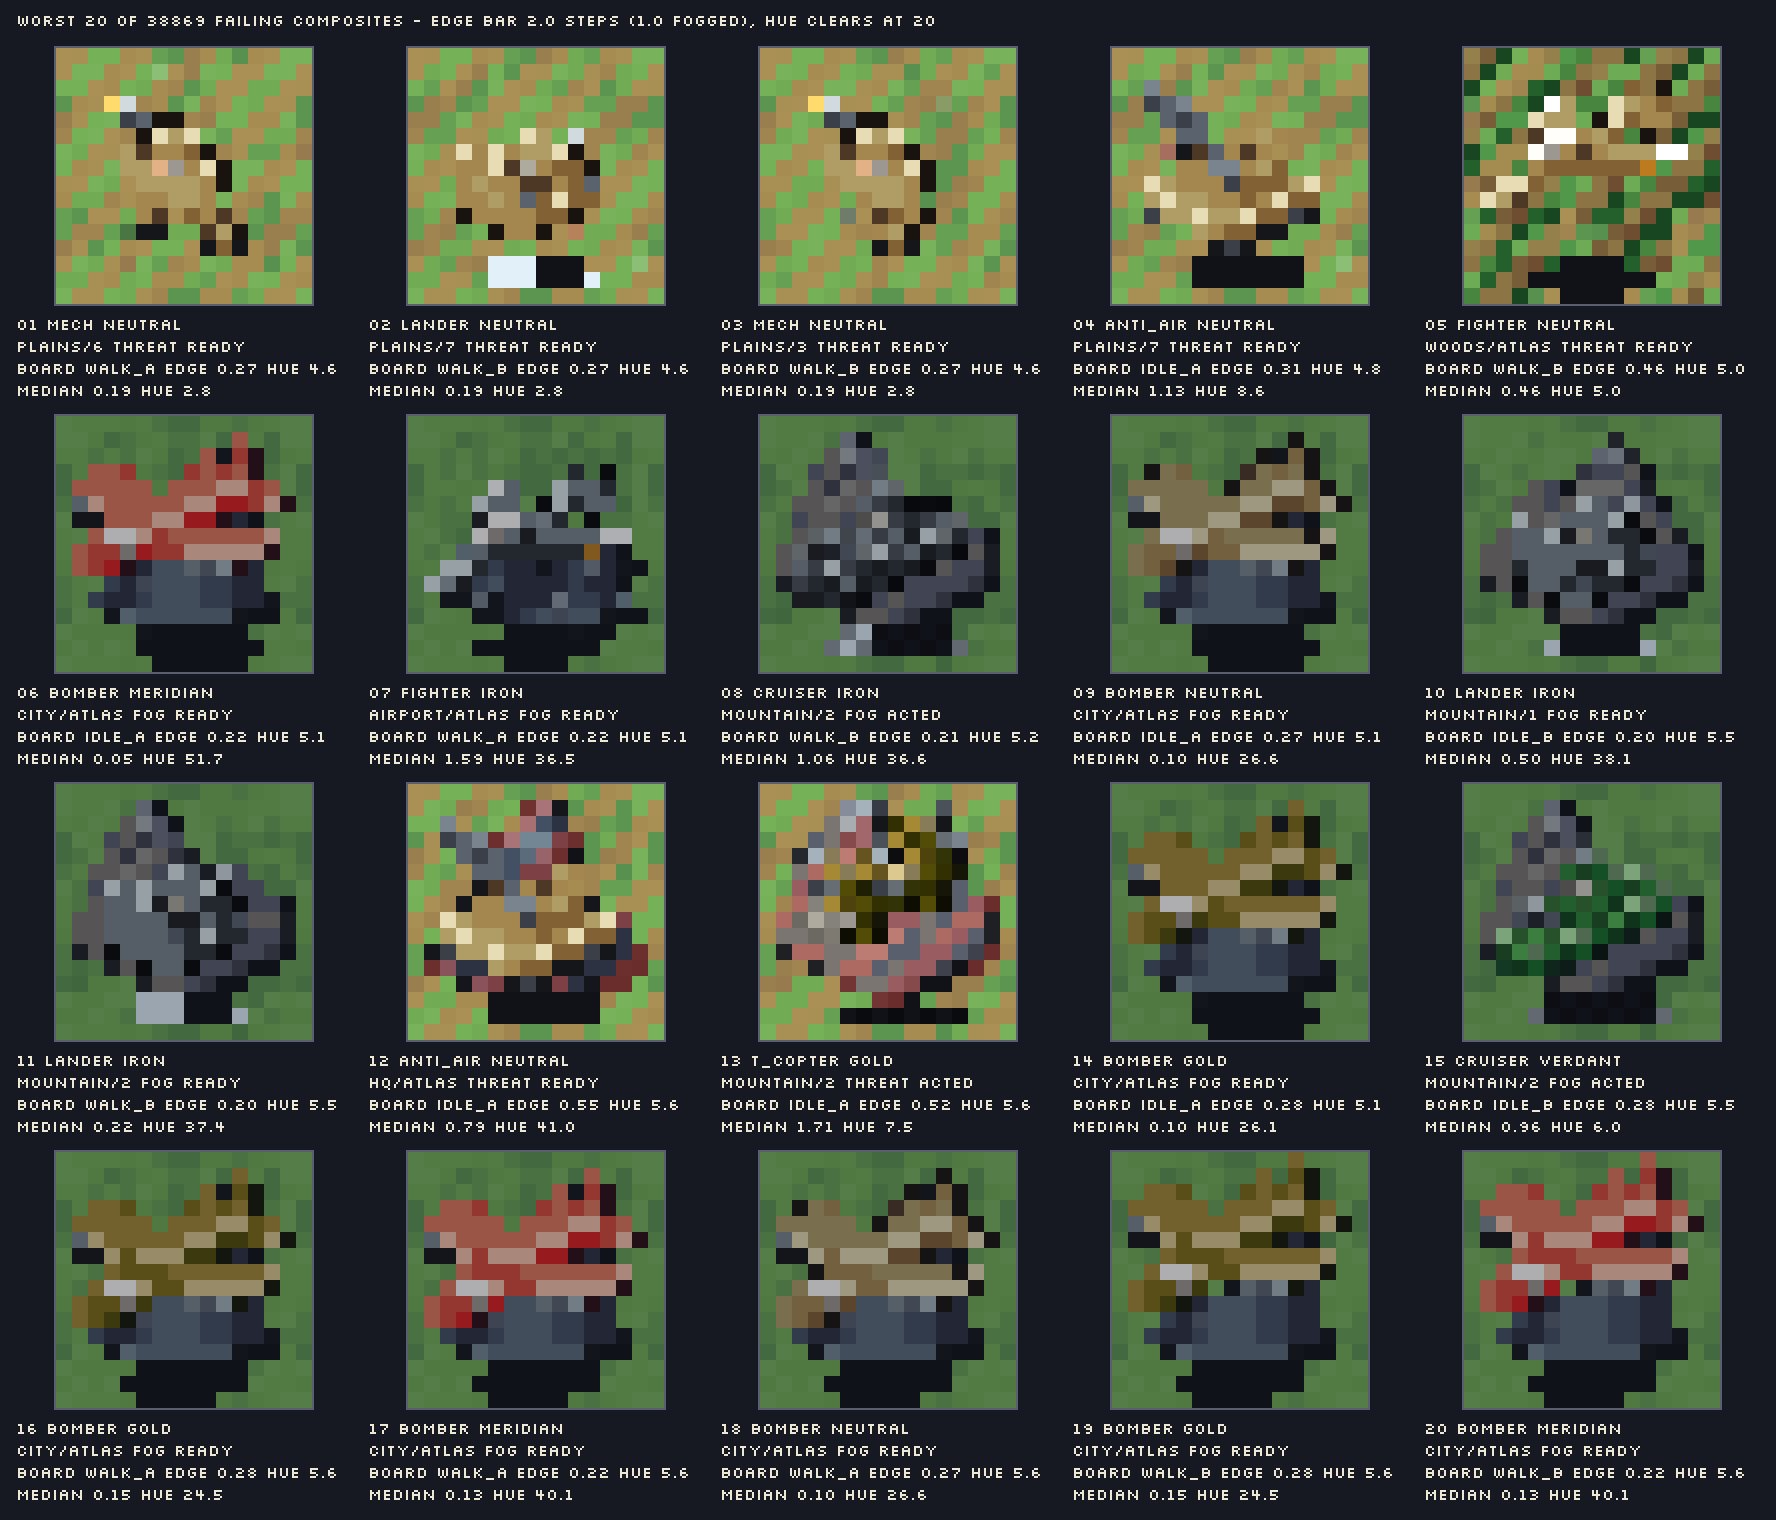
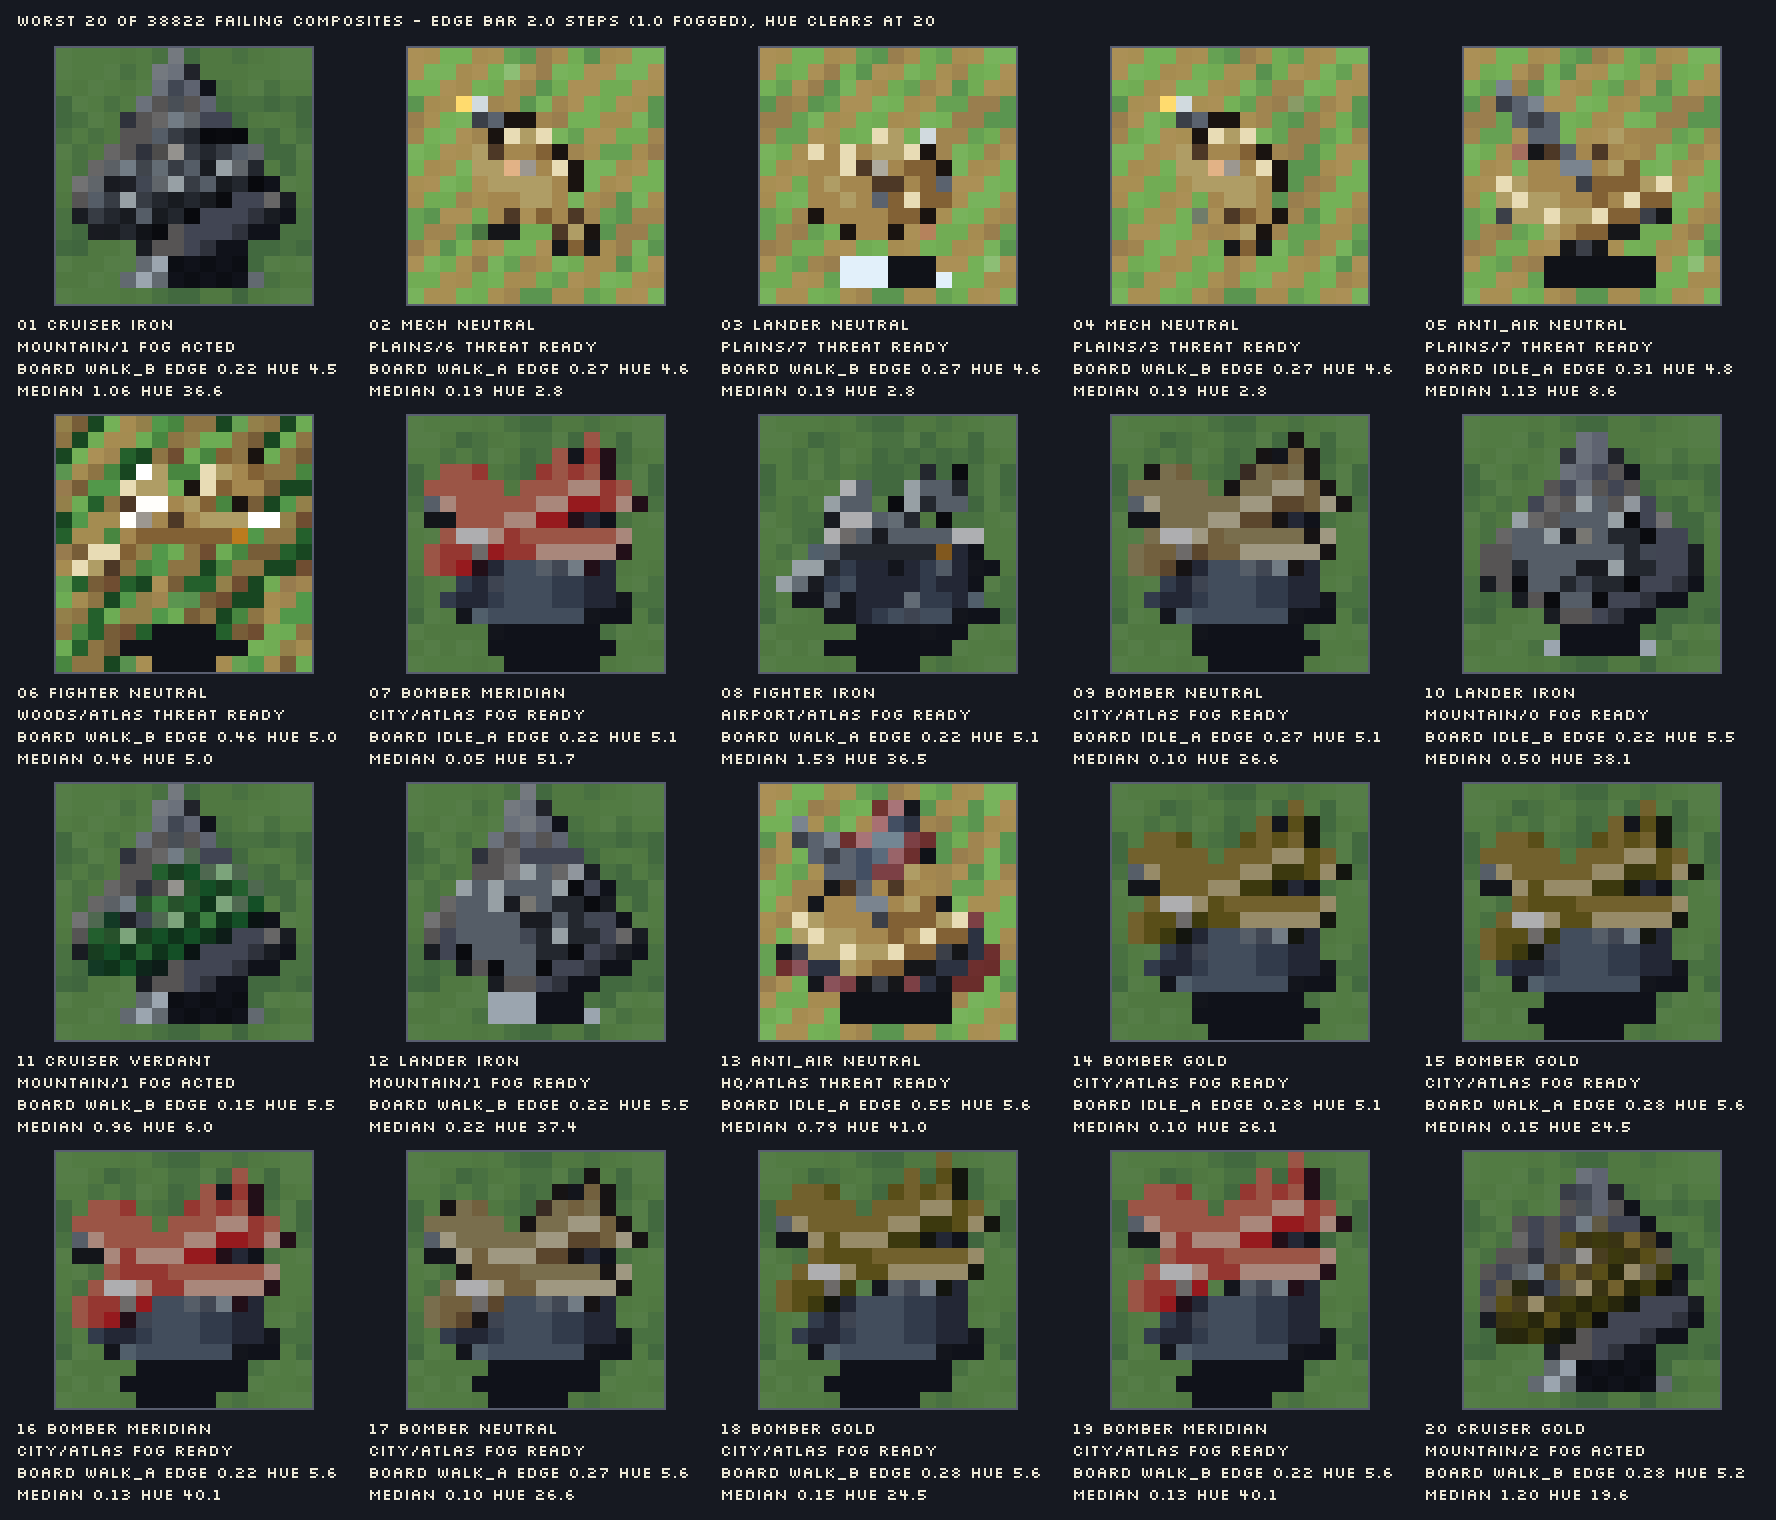
Re-baseline the legibility digest for the mountain's new cap
The rebase over #580 and #582 puts the sweep on the shipped mint reach wash,
so the mountain redraw is measured against that board: 60 cells cross to
passing, 13 the other way, all of them mountain's. The 13 are accepted — nine
grey-on-grey, one fogged aurora rockets, two acted-under-wash and one against
the standing verdant hue gap. docs/sprite_legibility.md carries the ledger;
the digest and the gallery are of one run.

diff --git a/docs/sprite_legibility.md b/docs/sprite_legibility.md
@@ -218,20 +218,40 @@ shoulders under it**, measures the snow line **down from that summit** so only i
 draws the cap a ramp slot higher (`palette.TERRAIN_MATERIALS`, `snowcap` on S4) — the snow ramp's
 own top three rungs, brightest L172, still under the ceiling that reserves the top band for units.
 
-It **buys the board cells**: **34,207 failing (93.2%) clear and 7,011 (81.1%) fogged**, against the
-previous baseline's 34,212 (93.2%) / 7,037 (81.4%), and the `mountain` row is 94.3% of its 3,672
-cells against 94.4%. **51 verdicts changed, all of them mountain's: 41 crossed to passing and 10
-the other way**, a net 31 cells of 45,360. Nothing was tuned in response, and no unit, faction,
-overlay or other terrain moved by a cell.
+It **buys the board cells**: **31,811 failing (86.63%) clear and 7,011 (81.15%) fogged**, against
+the previous baseline's 31,832 (86.69%) / 7,037 (81.45%), and the `mountain` row is 86.88% of its
+4,536 cells against 87.92%. **73 verdicts changed, every one of them mountain's: 60 crossed to
+passing and 13 the other way**, a net 47 cells of 45,360. Nothing was tuned in response, and no
+unit, faction, overlay or other terrain moved by a cell.
 
 One thing the sweep did say out loud, and the art answered: a first cut drew the band of rock
 **under** the snow line a rung darker, which is how a real snow line reads and read well on the
 tile. It puts the massif's darkest rung over the middle of the cell, which is where a unit stands,
-and the ratchet came back with 22 mountain cells that had passed and no longer did — almost all of
+and the ratchet came back with mountain cells that had passed and no longer did — almost all of
 them `acted` or fogged units, whose own values are dimmed. That band is not in the shipped art; the
 cap is read by its own rungs alone.
 
-The baseline digest was rewritten again (`make legibility-baseline`), so the 41 gains are the line
+The 13 losses were read one by one and accepted; darkening the cap's top rung to answer them would
+trade away the light terminal that bought the 60. They fall in three classes:
+
+- **Nine are the accepted grey-on-grey residual** — seven iron and two neutral, eight in clear
+  view and one fogged (`walk_a|b_copter|iron|ready|mountain|fog`). Grey liveries on grey rock is
+  the pairing this page has named since round 9 and the cap does not change it.
+- **`walk_a|rockets|aurora|ready|mountain|fog` is its own item, under the fog residual** — a
+  chromatic livery the shroud pulls to the rock's own value. Named here so it is findable if the
+  fog isolation rate is ever revisited.
+- **Two are a new class, `acted`-under-wash** — `fighter|aurora|acted|mountain|move` and
+  `recon|aurora|acted|mountain|move`: the deliberate `acted` dim meeting the lit mint reach wash
+  the section above installed. Neither the mountain's problem nor grey-on-grey's, and the watch
+  condition is that the class stays on mountain. If it ever appears on another ground, the answer
+  is the wash's value or the `acted` dim's floor — a renderer and overlay ruling — and never
+  per-terrain art.
+
+The remaining cell, `idle_b|apc|verdant|ready|mountain|attack`, is logged against the standing
+verdant hue-gap follow-up (round 11's saturation residual, finding 7 below) as that follow-up's
+concrete worst case.
+
+The baseline digest was rewritten again (`make legibility-baseline`), so the 60 gains are the line
 the next change is held to.
 
 ## What the generator changed

diff --git a/generators/sprites/docs/terrain_tones.md b/generators/sprites/docs/terrain_tones.md
@@ -226,6 +226,7 @@ Darkening the rock UNDER the line was tried and rejected — a band of `scree`
 four voxels deep beneath the snow, which is how a real snow line reads and
 which read well on the tile. It puts the massif's darkest rung (L66, scree's
 turned-away face) over the middle of the cell, and the middle of the cell is
-where a unit stands: `make legibility-ratchet` came back with 22 mountain cells
-that had passed and no longer did, almost all of them `acted` or fogged units,
-whose own values are dimmed. The cap is read by its own rungs alone.
+where a unit stands: `make legibility-ratchet` came back with a score of
+mountain cells that had passed and no longer did, almost all of them `acted`
+or fogged units, whose own values are dimmed. The cap is read by its own rungs
+alone.

diff --git a/generators/sprites/README.md b/generators/sprites/README.md
@@ -570,7 +570,7 @@ family's convention (`palette.TERRAIN_MATERIALS`): snow may not be made whiter,
 units, so what a cap gains it gains from the rungs it is drawn at. Darkening
 the rock under the line instead is the rejected answer — it spends the massif's
 darkest rung over the middle of the cell, where a unit stands, and
-`make legibility-ratchet` failed 22 mountain cells on it.
+`make legibility-ratchet` failed a score of mountain cells on it.
 
 The massif itself is a **voxel height field**, rasterised by the same
 `render_indexed` the units and the buildings go through
